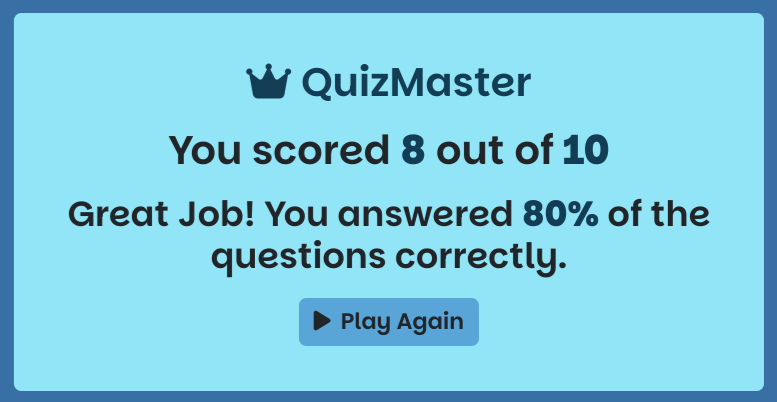
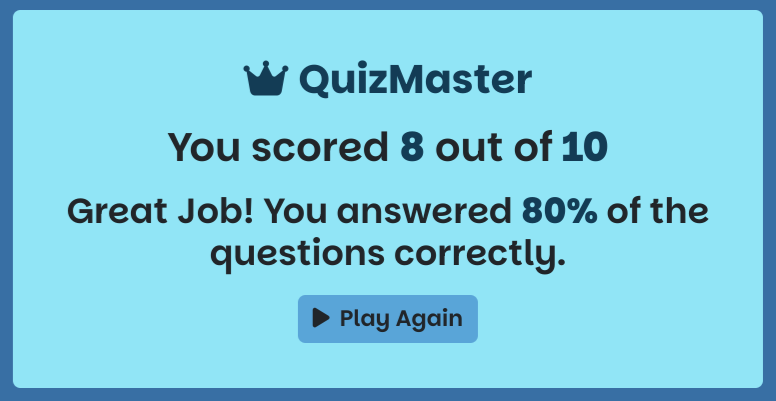
update readme with technologies used and final design choices

diff --git a/assets/css/style.css b/assets/css/style.css
@@ -26,7 +26,6 @@ h1,
 #quiz-parameters-container h2,
 #logo,
 h4,
-h4,
 strong {
     color: var(--primary-color);
 }
@@ -35,7 +34,6 @@ strong {
 #quiz-question-container h2,
 #quiz-question-container h3,
 #quiz-parameters-container h3,
-#results-container h2,
 #results-container h3  {
     font-weight: 600;
 }
@@ -140,3 +138,10 @@ h1 {
     width: 200px;
 }
 
+#results-container h2 {
+    font-weight: 600;
+}
+
+div #logo {
+    font-weight: bold;
+}

diff --git a/README.md b/README.md
@@ -201,15 +201,15 @@ This platform aims to provide an enjoyable way to test and expand knowledge whil
 ![Mobile Wireframe](/assets/media/mobile.png)
 ### Surface
 **Visual Design**
+- Parkinsan Font and Blue Colour Scheme
 
 **Typography**
+
 ![Parkinsan Font](/assets/media/parkinsanFont.png)
 
 **Colour Scheme**
-![Colour Scheme](/assets/media/colours.png)
 
-**Imagery**
-![Mobile Wireframe](/assets/media/imagery.png)
+![Colour Scheme](/assets/media/Colors.png)
 
 ## Technologies Used
 - HTML5
@@ -223,6 +223,7 @@ This platform aims to provide an enjoyable way to test and expand knowledge whil
 - Balsamiq
 - favicon.io
 - Coolers
+- Chrome DevTools
 
 ## Deployment
 - The site was deployed to GitHub pages. The steps to deploy are as follows: 
